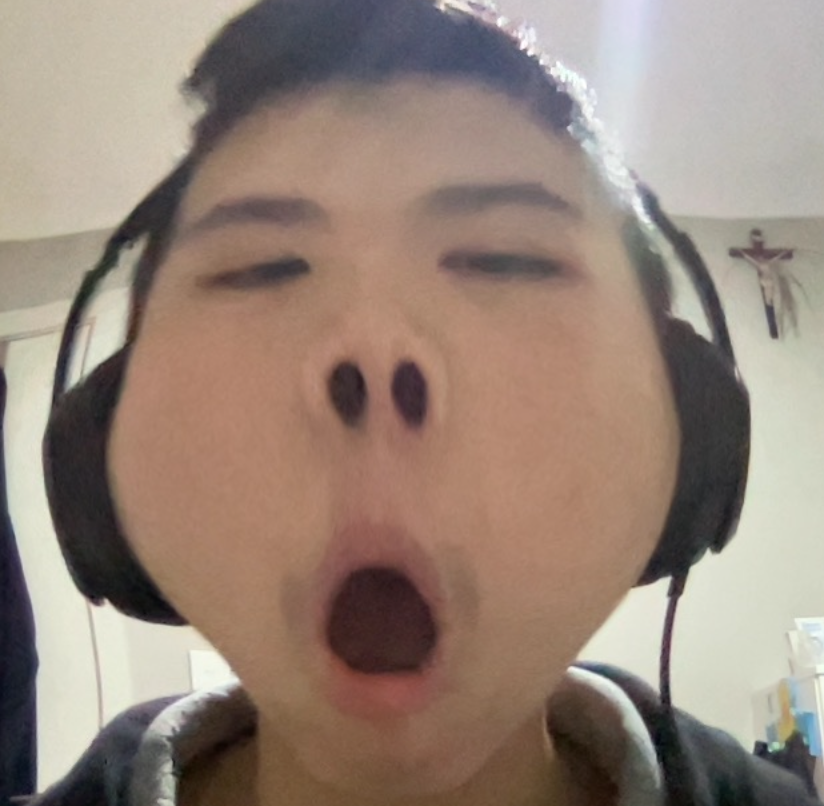
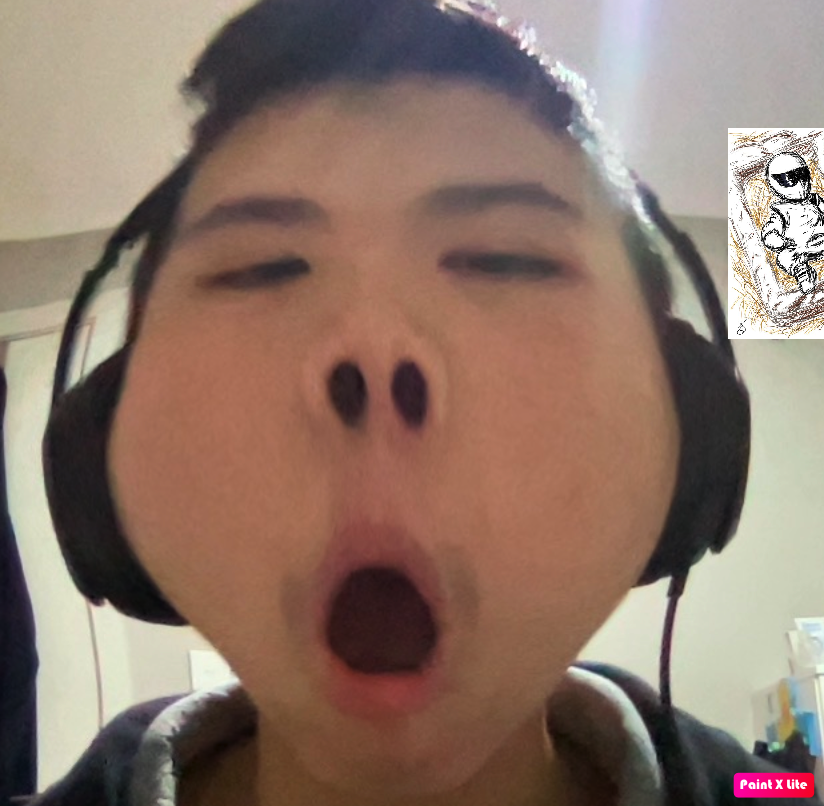
changed my selfie
got rid of politics.

Changed region(s): [[0.8799, 0.1551, 1.0, 0.4342], [0.8799, 0.8685, 1.0, 0.9926]]

diff --git a/index.html b/index.html
@@ -34,7 +34,7 @@
 </ol>
 
 <!-- Bad Poeople -->
-<h2>Anrolds's least favourite people.</h2>
+<h2>Anrold's least favourite people.</h2>
 <p>Click on the links below to find out more on them!</p>
 <ul>
 	<li><a href="https://en.wikipedia.org/wiki/Vladimir_Putin" target="_blank" >vladdy daddy</a></li>
